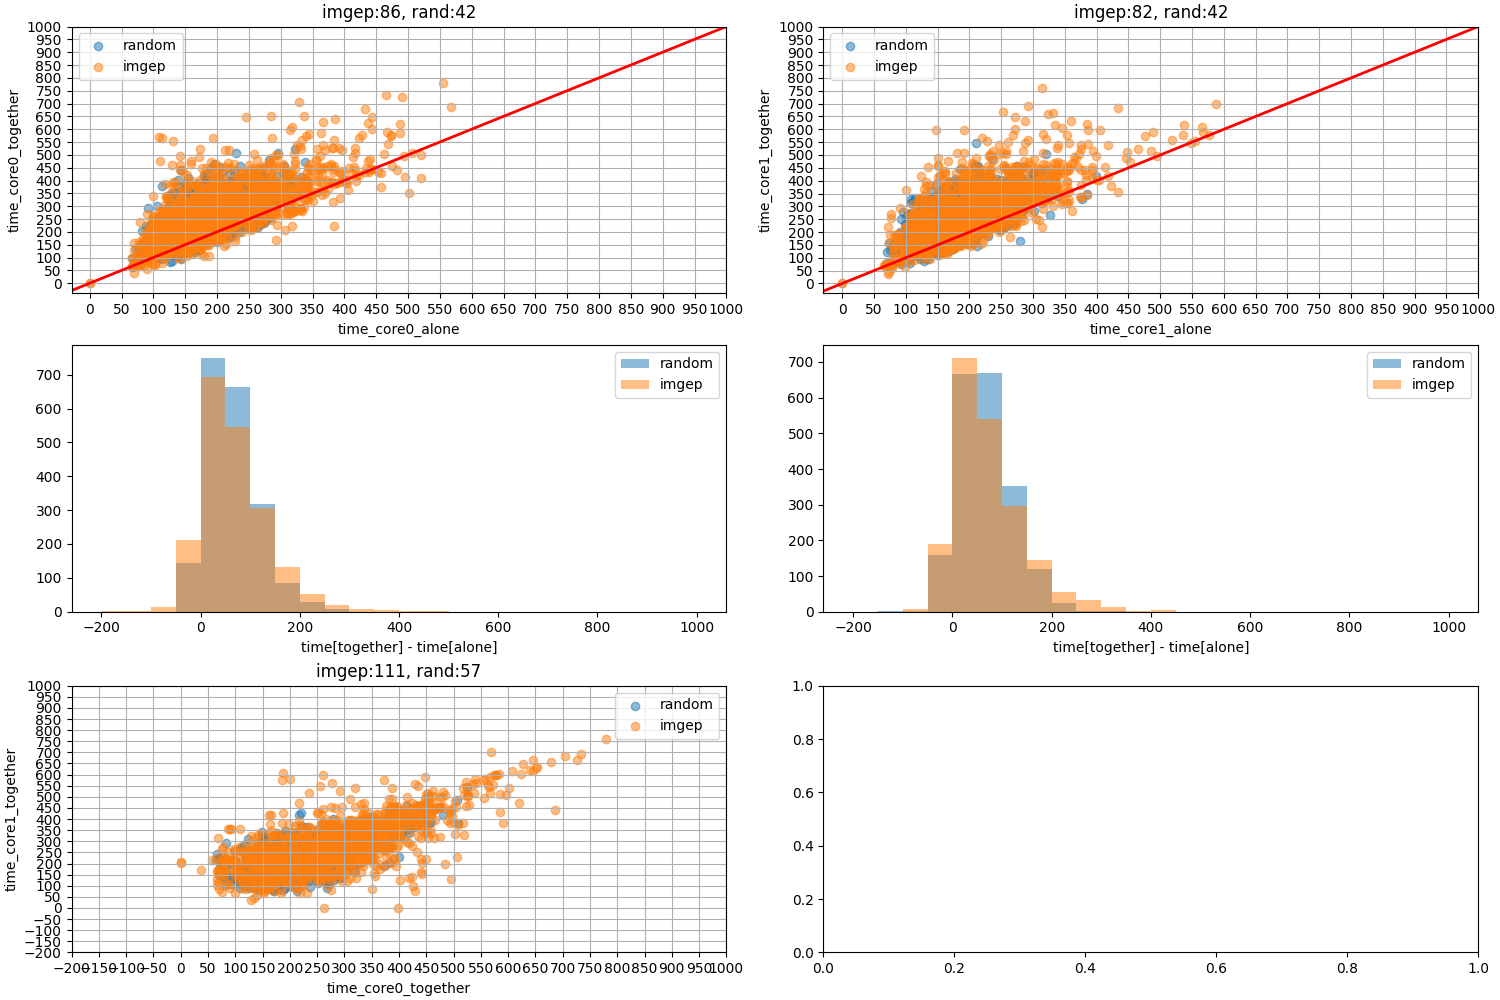
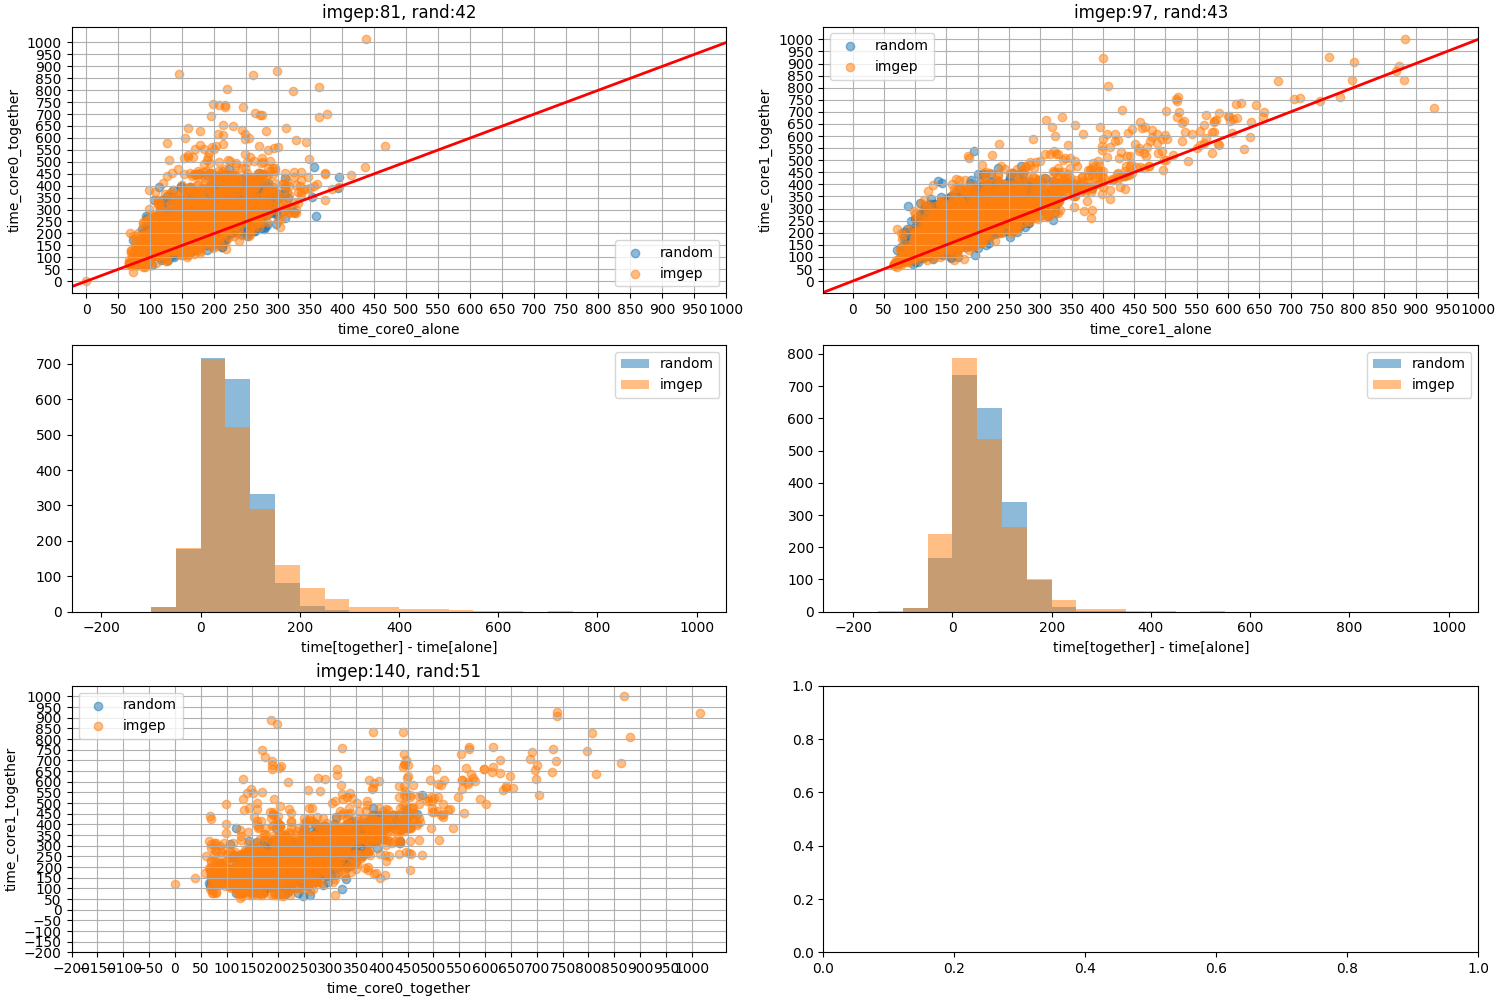
update

diff --git a/test.py b/test.py
@@ -35,7 +35,7 @@ if __name__=="__main__":
     with open(f"data/history_rand_N_{N}_{0}", "rb") as f:
         content_random = pickle.load(f)
     modules = ["time"]+ ["time_diff"]+[f"miss_bank_{j}" for j in range(num_bank)]+[f"miss_count_bank_{j}" for j in range(num_bank)]+[f"diff_ratios_bank_{j}" for j in range(num_bank)]
-    for k in [3]:
+    for k in []:
         print(f"start: k = {k}")
         G = GoalGenerator(num_bank = num_bank)
         Pi = OptimizationPolicykNN(k=k,mutation_rate=mutation_rate,max_len=50)
@@ -44,9 +44,9 @@ if __name__=="__main__":
         imgep()
         H_imgep.save_pickle(f"history_kNN_{k}_N_{N}")
         print(f"done: k = {k}")
-    N = 500
+    N = 2000
     if True:
-        for k_moins_un,name in enumerate([f"data/history_kNN_{k}_N_{N}_0" for k in [3]]):
+        for k_moins_un,name in enumerate([f"data/history_kNN_{k}_N_{N}_0" for k in [1,2,3]]):
             with open(name, "rb") as f:
                 content_imgep = pickle.load(f)
             comparaison(content_random, content_imgep, name = [f"image/comp_ratios_{k_moins_un +1}",f"image/comp_times_k{k_moins_un+1}"])

diff --git a/exploration/imgep/OptimizationPolicy.py b/exploration/imgep/OptimizationPolicy.py
@@ -64,7 +64,6 @@ class OptimizationPolicykNN:
             keys = [f"diff_ratios_core{j}" for j in range(2)]
             b = np.array([np.array(H.memory_perf[key])[:,bank] for key in keys])
         ##########################################
-        print("module", module)
         d = self.loss(signature,b)
         idx = np.argsort(d)[:self.k]
         output = {"program": {"core0":[],"core1":[]},}

diff --git a/exploration/imgep/goal_generator.py b/exploration/imgep/goal_generator.py
@@ -53,7 +53,7 @@ class GoalGenerator:
                                   stats["diff_ratios_core1"]["max"][int(module[-1])]
                                   )
                                    )
-            diff_ratios_target = 1.5* maxmiss
+            diff_ratios_target = np.random.uniform(minmiss,maxmiss)
             return diff_ratios_target
 
         elif module=="time_diff":
